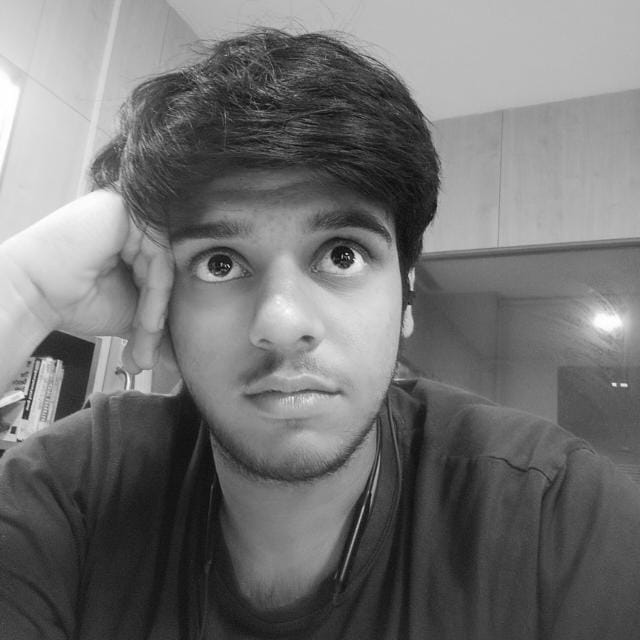
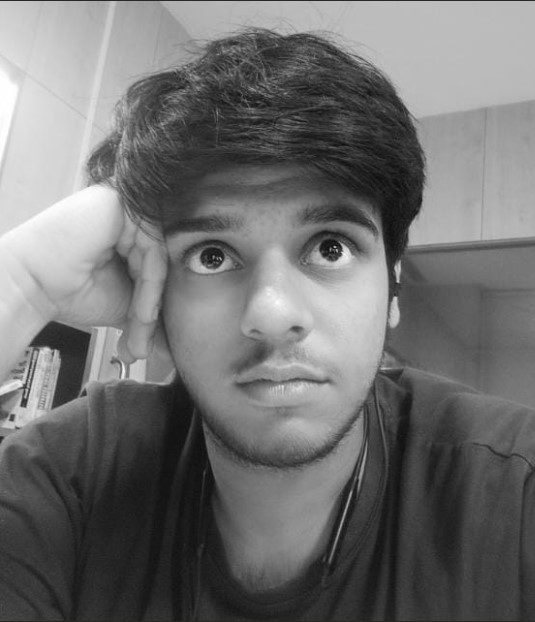
board pic update

diff --git a/src/components/board/Board.jsx b/src/components/board/Board.jsx
@@ -16,7 +16,7 @@ const Board = () => {
 						transition={{duration: 0.5}}>
 						<div className='pic'>
 							<img
-								src='board24/dhruvSharma.jpg'
+								src='board24/dhruv1.jpg'
 								alt=''
 							/>
 						</div>

diff --git a/src/components/hero/hero.scss b/src/components/hero/hero.scss
@@ -90,7 +90,7 @@
   .slidingTextContainer {
     position: absolute;
     font-size: 50vh;
-    bottom: -110px;
+    bottom: -130px;
     white-space: nowrap;
     color: #ffffff09;
     width: 50%;
